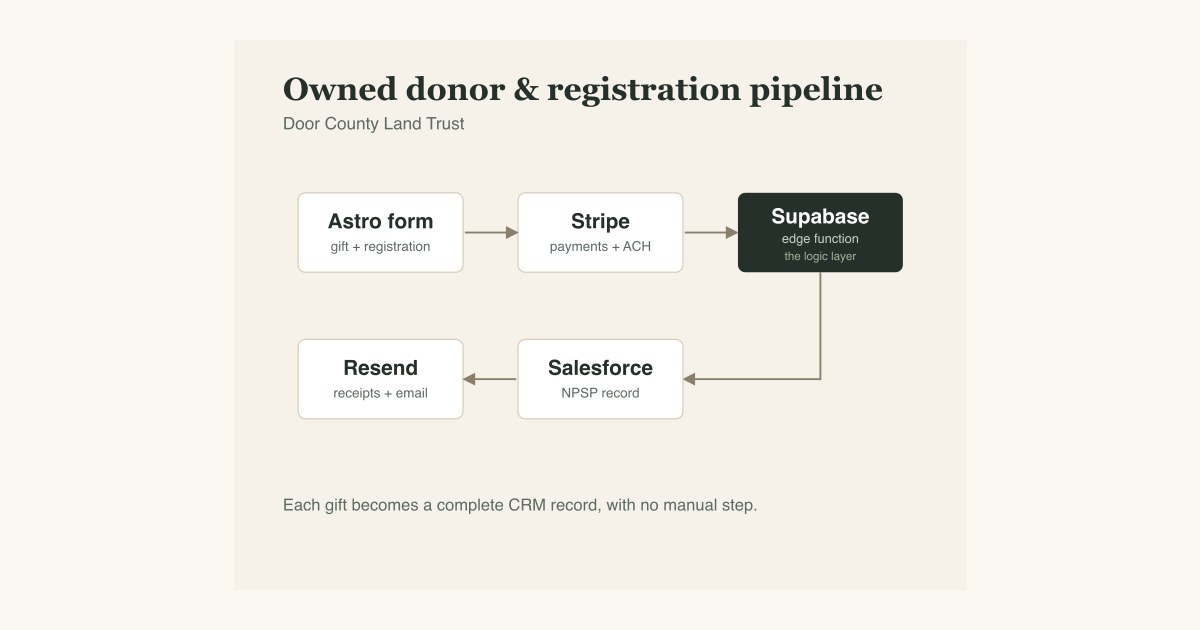
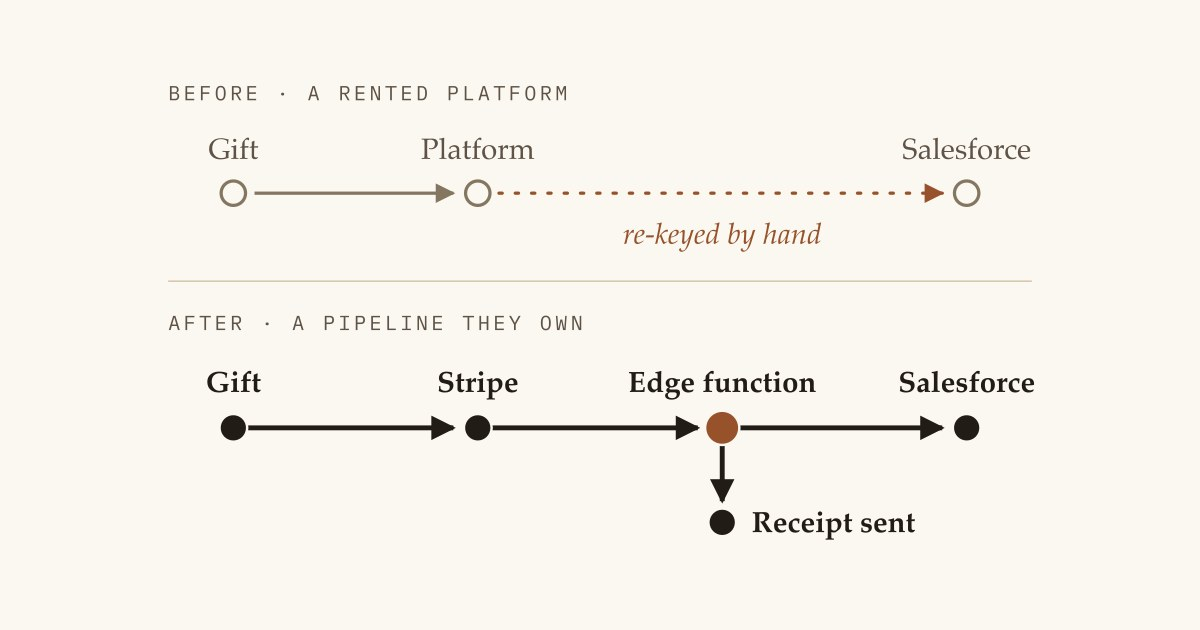
Redraw the donor pipeline diagram as a before-and-after route
The old boxes-and-arrows chart becomes two routes in the site's ink,
rust and type: before, with the stretch staff re-keyed by hand, and
after, with that break closed. The case-study version adds what moves
on each leg, what Salesforce receives, and a bar for the 316 of 340
registrations that synced untouched. The small version now fits the
Work card without cropping, and Home shares the same file.

diff --git a/src/content/projects/dclt-donor-pipeline.md b/src/content/projects/dclt-donor-pipeline.md
@@ -31,7 +31,7 @@ The second decision was ownership. Every piece runs in accounts the Land Trust c
 
 The architecture is a clean separation of concerns. An Astro donation form takes the gift. Stripe handles the money. A Supabase edge function receives the payment event and does the real work. Salesforce with the Nonprofit Success Pack (NPSP) stays the system of record. Resend sends the transactional email. Each system does one job, and the data flows one direction through them.
 
-![Architecture diagram: an Astro donation form flows to Stripe for payments and ACH, into a Supabase edge function that acts as the logic layer, which writes a complete record to Salesforce NPSP and triggers Resend for receipts and confirmations.](/images/projects/dclt-pipeline-diagram.svg)
+![Diagram in two rows. Before: a gift went to a rented platform, and staff keyed exports into Salesforce by hand. After: the website form hands the gift to Stripe, a Supabase edge function receives the payment event and writes the contact, household, gift, recurring plan, fund allocation and payment to Salesforce, and Resend sends the receipt. A bar shows 316 of 340 first-season registrations reaching Salesforce with no one re-keying them.](/images/projects/dclt-pipeline-diagram.svg)
 
 *The pipeline end to end: the form takes the gift, Stripe takes the money, the Supabase edge function does the work, Salesforce stays the system of record, and Resend sends the email.*
 
